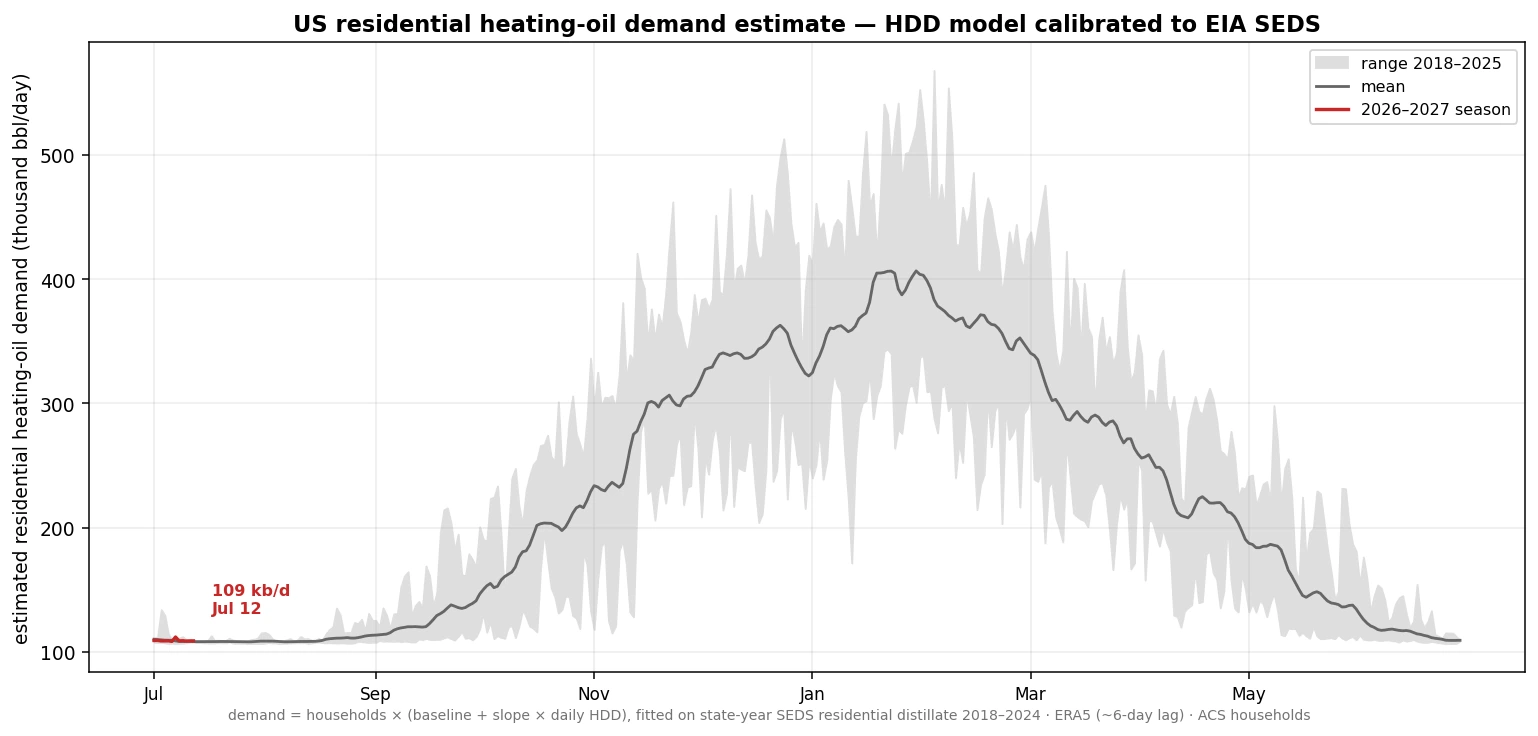
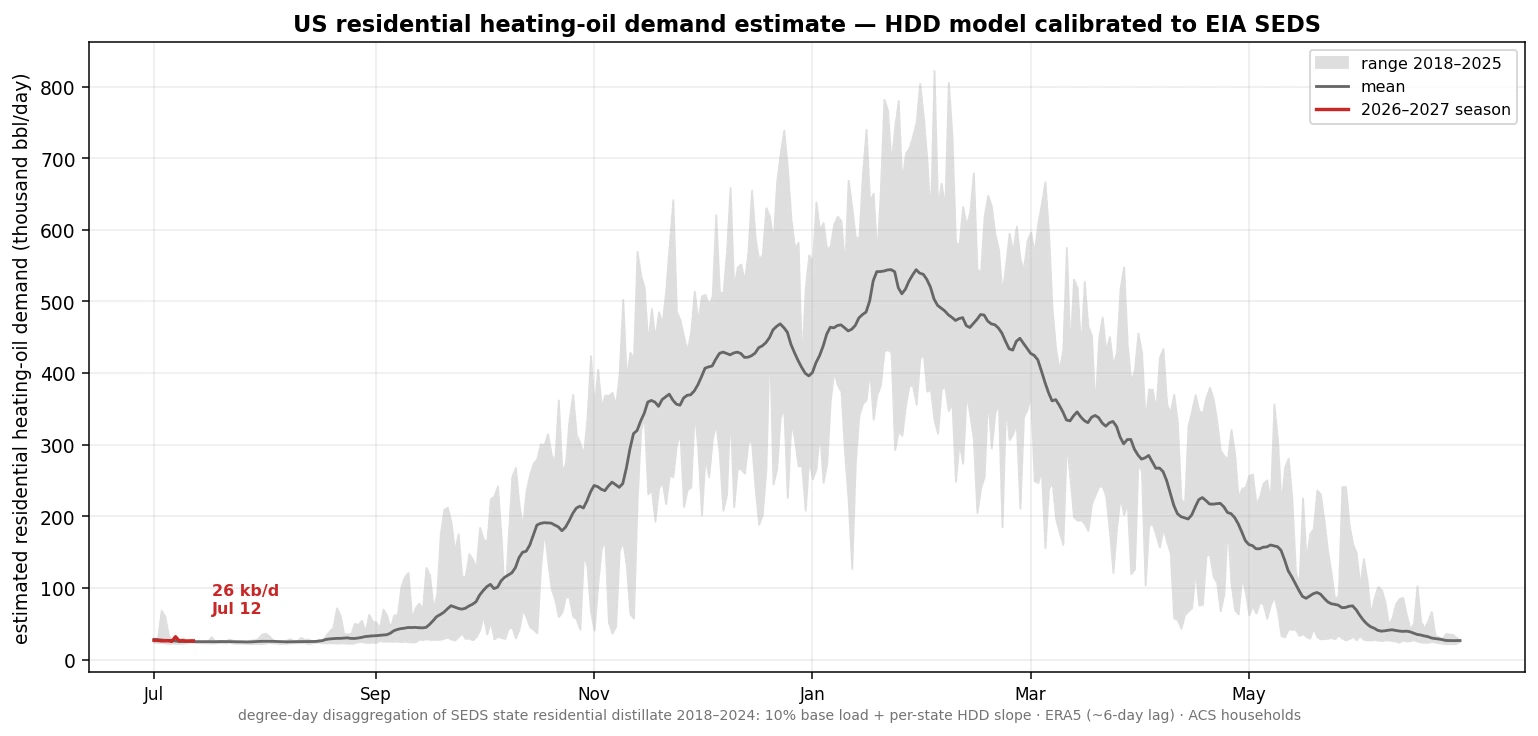
heating-oil: degree-day disaggregation replaces under-identified FE fit
July baseline was 109 kb/d — regression shoved heating load into the flat
constant. Now: 10% imposed base load + per-state HDD slope; summer ~26 kb/d
(water heaters), winter peaks sharpen, SEDS totals exact by construction.

diff --git a/fuelburn.html b/fuelburn.html
@@ -343,7 +343,7 @@
     <div class="chart-card">
       <div class="chart-card-header">
         <h2>Real-Time Demand Estimate &mdash; Thousand Barrels per Day</h2>
-        <p>The HDD index converted to physical barrels: each state's oil-heating households &times; (baseline + burn-per-HDD), <b>calibrated to EIA SEDS annual residential distillate with state fixed effects</b>. Levels are anchored to reported consumption; the daily shape is weather. Rough by construction &mdash; it ignores prices, tank-fill timing and behavior &mdash; but it turns a cold snap into a barrels number the same day ERA5 reports it.</p>
+        <p>The HDD index converted to physical barrels: a degree-day disaggregation of <b>EIA SEDS state residential distillate</b>: 10% base load (water heaters) plus a per-state burn-per-HDD slope, so reported annual totals are reproduced exactly and the daily shape is weather. Rough by construction &mdash; it ignores prices, tank-fill timing and behavior &mdash; but it turns a cold snap into a barrels number the same day ERA5 reports it.</p>
       </div>
       <div class="chart-img-wrap">
         <img src="assets/power_data/heatoil_bbl.webp" alt="Estimated US residential heating oil demand in thousand barrels per day, current season vs 2018-2025 envelope" loading="lazy" style="width:100%;height:auto;">

diff --git a/scripts/heatoil/calibrate.py b/scripts/heatoil/calibrate.py
@@ -53,32 +53,27 @@ def fit():
             gal_hh = cons_kbbl * 1000 * GAL_PER_BBL / hh[s]
             rows.append((s, y, hdd_y, gal_hh, hh[s]))
     df = pd.DataFrame(rows, columns=["state", "year", "hdd", "gal_hh", "hh"])
-    # STATE FIXED EFFECTS: gal_hh = a_state + b*hdd — cross-state structural
-    # differences (primary vs supplemental heat, housing stock) dwarf the HDD
-    # signal in a pooled fit; b is identified within-state across winters
-    states = sorted(df["state"].unique())
-    D = np.zeros((len(df), len(states)))
-    for i, s in enumerate(states):
-        D[df["state"].values == s, i] = 1.0
-    X = np.column_stack([D, df["hdd"]])
-    w = (df["hh"] / df["hh"].mean()).values
-    beta = np.linalg.lstsq(X * np.sqrt(w[:, None]),
-                           df["gal_hh"] * np.sqrt(w), rcond=None)[0]
-    a_s = dict(zip(states, beta[:-1]))
-    b = float(beta[-1])
-    pred = X @ beta
-    resid = df["gal_hh"] - pred
-    within = df["gal_hh"] - D @ np.array([df[df.state == s]["gal_hh"].mean()
-                                          for s in states])
-    r2_within = 1 - (resid ** 2 * w).sum() / max((within ** 2 * w).sum(), 1e-9)
-    print(f"  FE fit on {len(df)} state-years: b = {b:.3f} gal/hh/HDD "
-          f"(within-R² {r2_within:.2f}); baselines e.g. "
-          f"ME {a_s.get('ME', 0):.0f}, MD {a_s.get('MD', 0):.0f} gal/hh/yr")
+    # DEGREE-DAY DISAGGREGATION (regression under-identified the split and
+    # inflated the flat baseline): impose base load = BASE_FRAC of annual
+    # (non-heating use, chiefly oil-fired water heaters), put the rest on a
+    # per-state HDD slope. SEDS totals reproduced by construction; the
+    # seasonal split is the standard utility profiling assumption.
+    BASE_FRAC = 0.10
+    a_s, b_s = {}, {}
+    for s, g in df.groupby("state"):
+        ann_gal = g["gal_hh"].mean()
+        ann_hdd = g["hdd"].mean()
+        a_s[s] = BASE_FRAC * ann_gal
+        b_s[s] = (1 - BASE_FRAC) * ann_gal / max(ann_hdd, 1.0)
+    print(f"  degree-day disaggregation on {len(df)} state-years "
+          f"(base {BASE_FRAC:.0%}): e.g. ME slope {b_s.get('ME', 0):.3f}, "
+          f"MD {b_s.get('MD', 0):.3f} gal/hh/HDD")
     (HERE / "calibration.json").write_text(json.dumps(
         {"a_state_gal_hh_yr": {k: float(v) for k, v in a_s.items()},
-         "b_gal_hh_hdd": b, "r2_within": float(r2_within), "n": len(df),
+         "b_state_gal_hh_hdd": {k: float(v) for k, v in b_s.items()},
+         "base_frac": BASE_FRAC, "n": len(df),
          "years": [min(FIT_YEARS), max(FIT_YEARS)]}))
-    return a_s, b
+    return a_s, b_s
 
 
 def chart(fit_result):
@@ -88,13 +83,15 @@ def chart(fit_result):
     from hdd_index import season_year, TOP_STATES
     hdd = pd.read_csv(HERE / "oil_hdd_daily.csv", parse_dates=["date"])
     hh = households_by_state()
-    a_s, b = fit_result
+    a_s, b_s = fit_result
     a_mean = float(np.mean(list(a_s.values())))
+    b_mean = float(np.mean(list(b_s.values())))
     bbl = np.full(len(hdd), 0.0)
     hh_covered = 0.0
     for s in TOP_STATES:
         if s in hh.index and f"hdd_{s}" in hdd:
             a = a_s.get(s, a_mean)
+            b = b_s.get(s, b_mean)
             bbl += hh[s] * (a / 365.0 + b * hdd[f"hdd_{s}"].values) / GAL_PER_BBL
             hh_covered += hh[s]
     scale = hh.sum() / hh_covered            # extrapolate to all oil households
@@ -129,8 +126,8 @@ def chart(fit_result):
                  "HDD model calibrated to EIA SEDS",
                  fontsize=12, fontweight="bold")
     fig.text(0.5, 0.005,
-             "demand = households × (baseline + slope × daily HDD), fitted on state-year "
-             "SEDS residential distillate 2018–2024 · ERA5 (~6-day lag) · ACS households",
+             "degree-day disaggregation of SEDS state residential distillate 2018–2024: "
+             "10% base load + per-state HDD slope · ERA5 (~6-day lag) · ACS households",
              ha="center", fontsize=7.5, color="0.45")
     fig.tight_layout()
     fig.savefig(OUT / "heatoil_bbl.webp", dpi=135, bbox_inches="tight",
